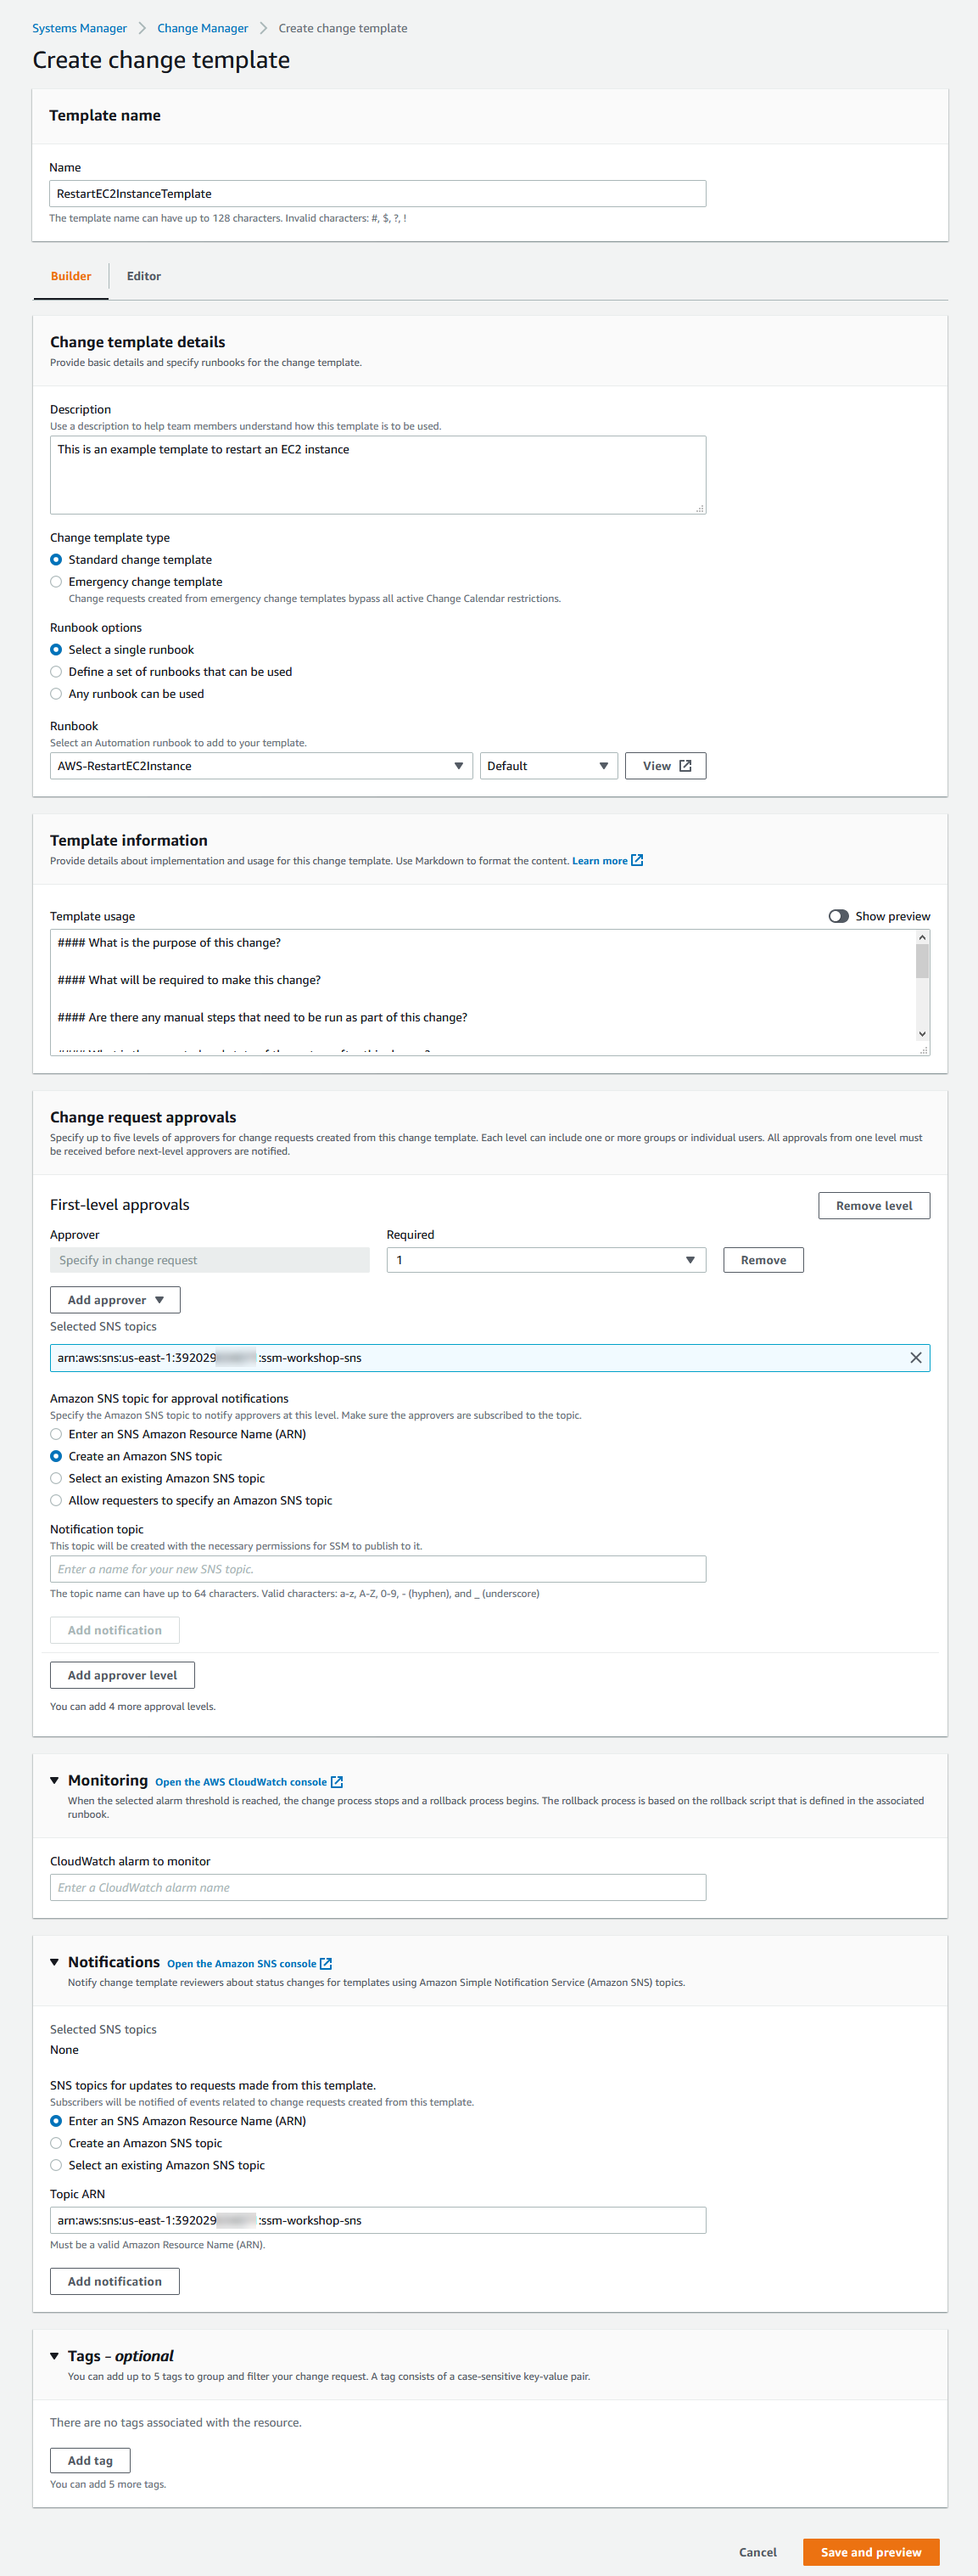
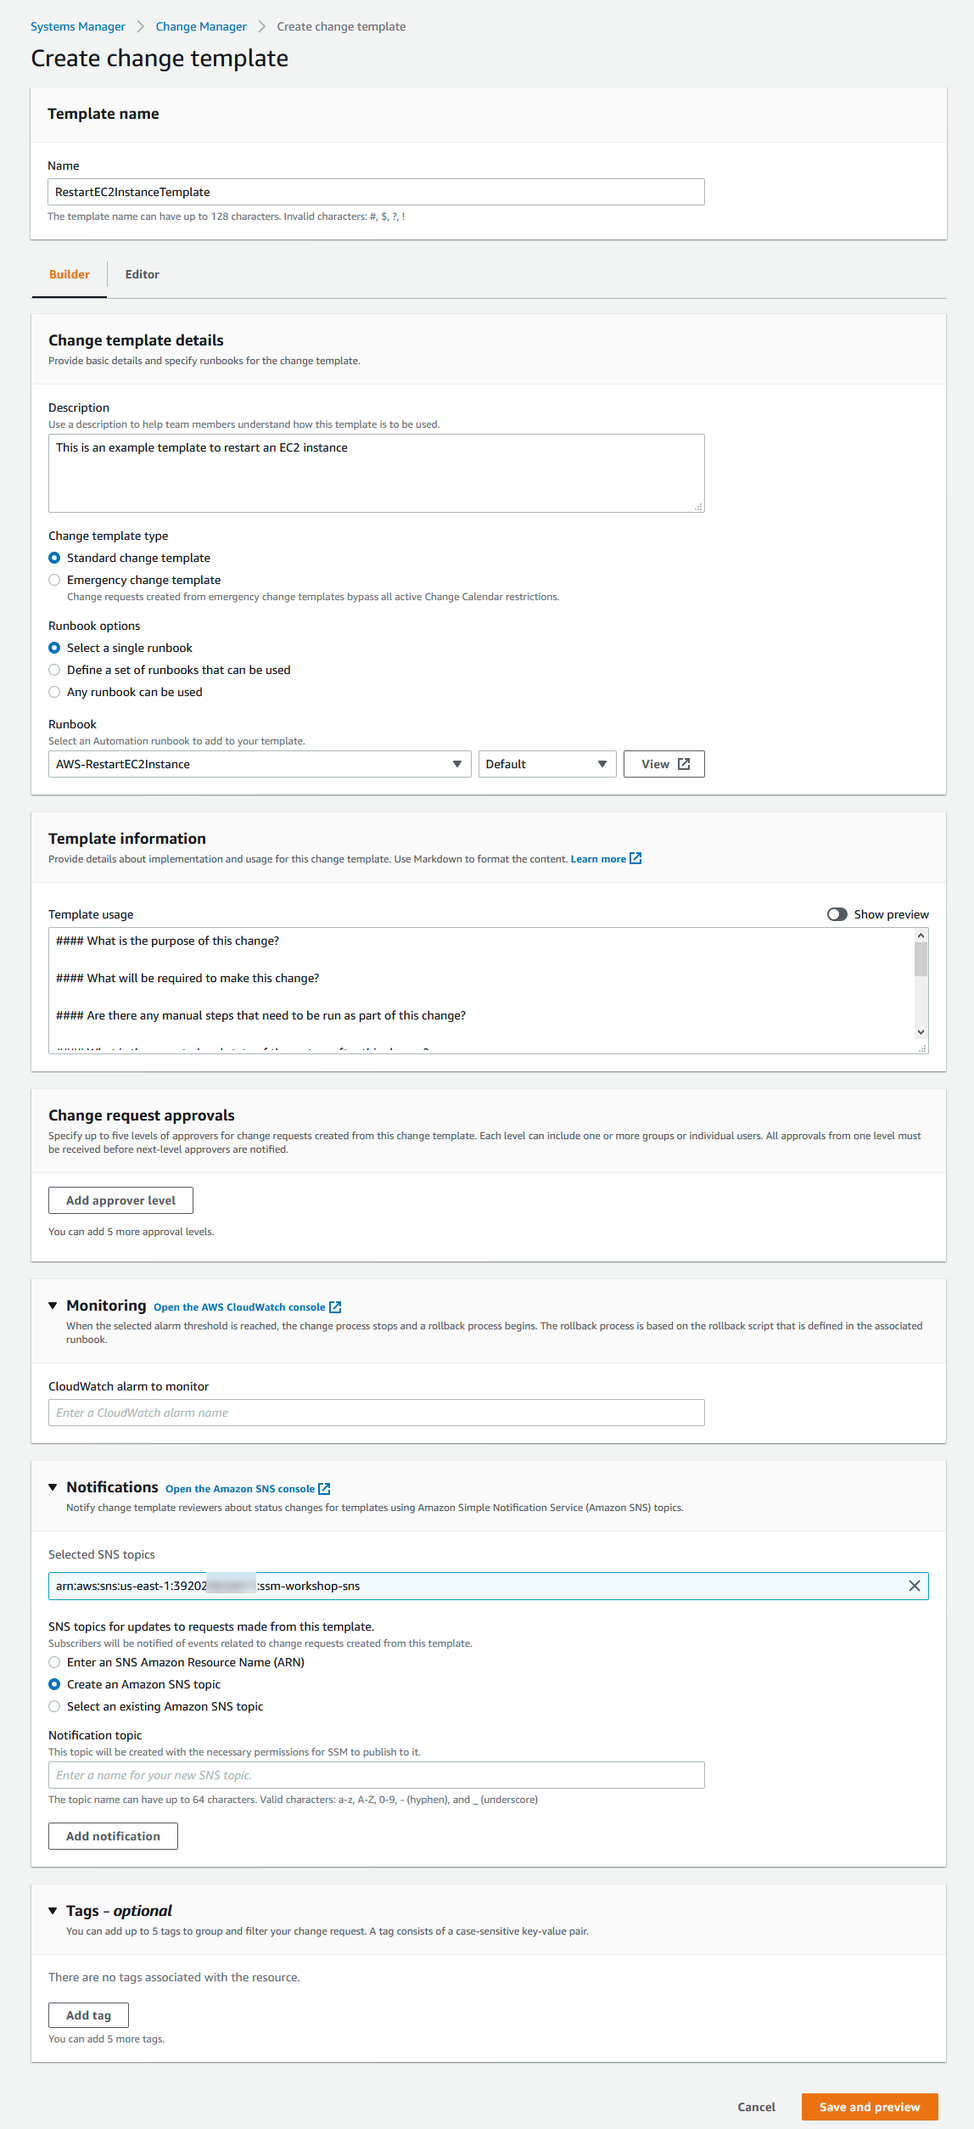
Updates to step 3
Updates

diff --git a/episode-04-step-03-enable-change-management.md b/episode-04-step-03-enable-change-management.md
@@ -42,6 +42,68 @@ A **change request** is a request in Change Manager to run an Automation runbook
 
 ## Instructions
 
+### Create IAM user for template reviews and change request approval
+
+First, we will create an Identity and Access Management (IAM) user that will act as our change template reviewer and change request approver.
+
+1. Open the AWS IAM console at https://console.aws.amazon.com/iam/
+1. In the navigation pane, choose **Users**
+1. Choose **Add user**
+1. In the **Set user details** section, enter ```approval-user```
+1. In the **Select AWS access type** section, choose **AWS Management Console access** 
+1. For **Console password**, choose **Custom password** and enter a password
+1. For **Require password reset**, unselect **User must create a new password at next sign-in** and choose **Next: Permissions**
+
+    ![](/media/iam-add-user.png)
+
+1. In the **Set permissions** section, choose **Attach existing policies directly**
+1. In the search bar, enter ```AdministratorAccess```, select **AdministratorAccess** from the results list, and choose **Next: Tags**
+1. Skip adding tags and select **Next: Review**
+1. Choose **Create user**
+1. On the resulting screen, copy the AWS Management console sign-in URL to Notepad for use later in the lab
+
+    ![](/media/iam-console-link.png)
+    
+#### Task 2: Create an IAM service role for Automation
+
+Next we must create an IAM service role, or *assume role*, that allows the service to perform actions on your behalf during the change operation.
+
+1. Open the AWS IAM console at https://console.aws.amazon.com/iam/
+1. In the navigation pane, choose **Roles**
+1. Choose **Create role**
+1. For **Select type of trusted entity**, leave the default value **AWS service**
+1. For **Choose a use case**, select **Systems Manager** in the section **Or select a service to view its use cases**
+1. For **Select your use case**, choose **Systems Manager** and choose **Next: Permissions**
+1. For **Attach permissions policies**, enter ```AmazonSSMAutomationRole``` in the search field, choose **AmazonSSMAutomationRole**, and choose **Next: Tags**
+1. Skip adding tags and choose **Next: Review**
+1. For **Role name**, enter ```change-manager-automation-role```, and choose **Create role**
+
+#### Task 3: Configuring Change Manager user identity management and template reviewers
+
+Perform the task in this procedure the first time you access Change Manager. You can update these configuration settings later by returning to Change Manager and choosing **Edit** on the **Settings** tab. 
+
+1. Open the AWS Systems Manager console at https://console.aws.amazon.com/systems-manager/
+1. In the navigation pane, choose **Change Manager**.
+1. On the service home page, choose **Set up delegated account**
+1. For **User identity management**, choose **AWS Identity and Access Management (IAM)
+1. For **Template reviewer notification**, choose **Create an Amazon SNS topic**, enter ```sm-workshop-sns``` for the topic name, and choose **Add notification**
+
+    ![](../media/change-manager-sns.png)
+
+1. For **Template reviewers** select **Add**, choose the **approval-user** we created previously, and select **Add approvers**
+
+#### Task 4: Configuring Change Manager change freeze event approvers and best practices
+
+1. For **Approvers for change freeze events** select **Add**, choose the **approval-user** we created previously, and choose **Add approvers**
+1. In the **Best practices** section, do the following:
+
+    - For **Check Change Calendar for restricted change events**, choose **Enabled**
+    - For **SNS topic for approvers for closed events**, select **Create an Amazon SNS topic**, enter ```sm-workshop-sns```, and choose **Add notification**
+    - Leave **Require monitors for all templates** as the default non-enabled state. **Note** In a real world environment, you can ensure that all templates for your organization specify an Amazon CloudWatch alarm to monitor your change operation
+    - For **Require template review and approval before**, choose **Enabled**
+
+1. Choose **Submit**
+
 ### Configure Change Manager
 
 1. Open the AWS Systems Manager console at https://console.aws.amazon.com/systems-manager/.
@@ -85,10 +147,10 @@ A **change request** is a request in Change Manager to run an Automation runbook
     - The SNS Topic ARN should be similar to the following: ```arn:aws:sns:us-east-1:1234567890:ssm-workshop-sns```.
 
 1. Select **Save and preview**.
-1. Select **Submit for review**.
 
     ![](/media/change-create-template.png)
     
+1. Select **Submit for review**.
 1. (Optionally) Choose the **Templates** tab, choose the **RestartEC2InstanceTemplate** template, and choose **View details**. You can then navigate between the various tabs to review the template details, tasks included, change requests created using the template, and the version history of the template.
 
 ### Create a change request
